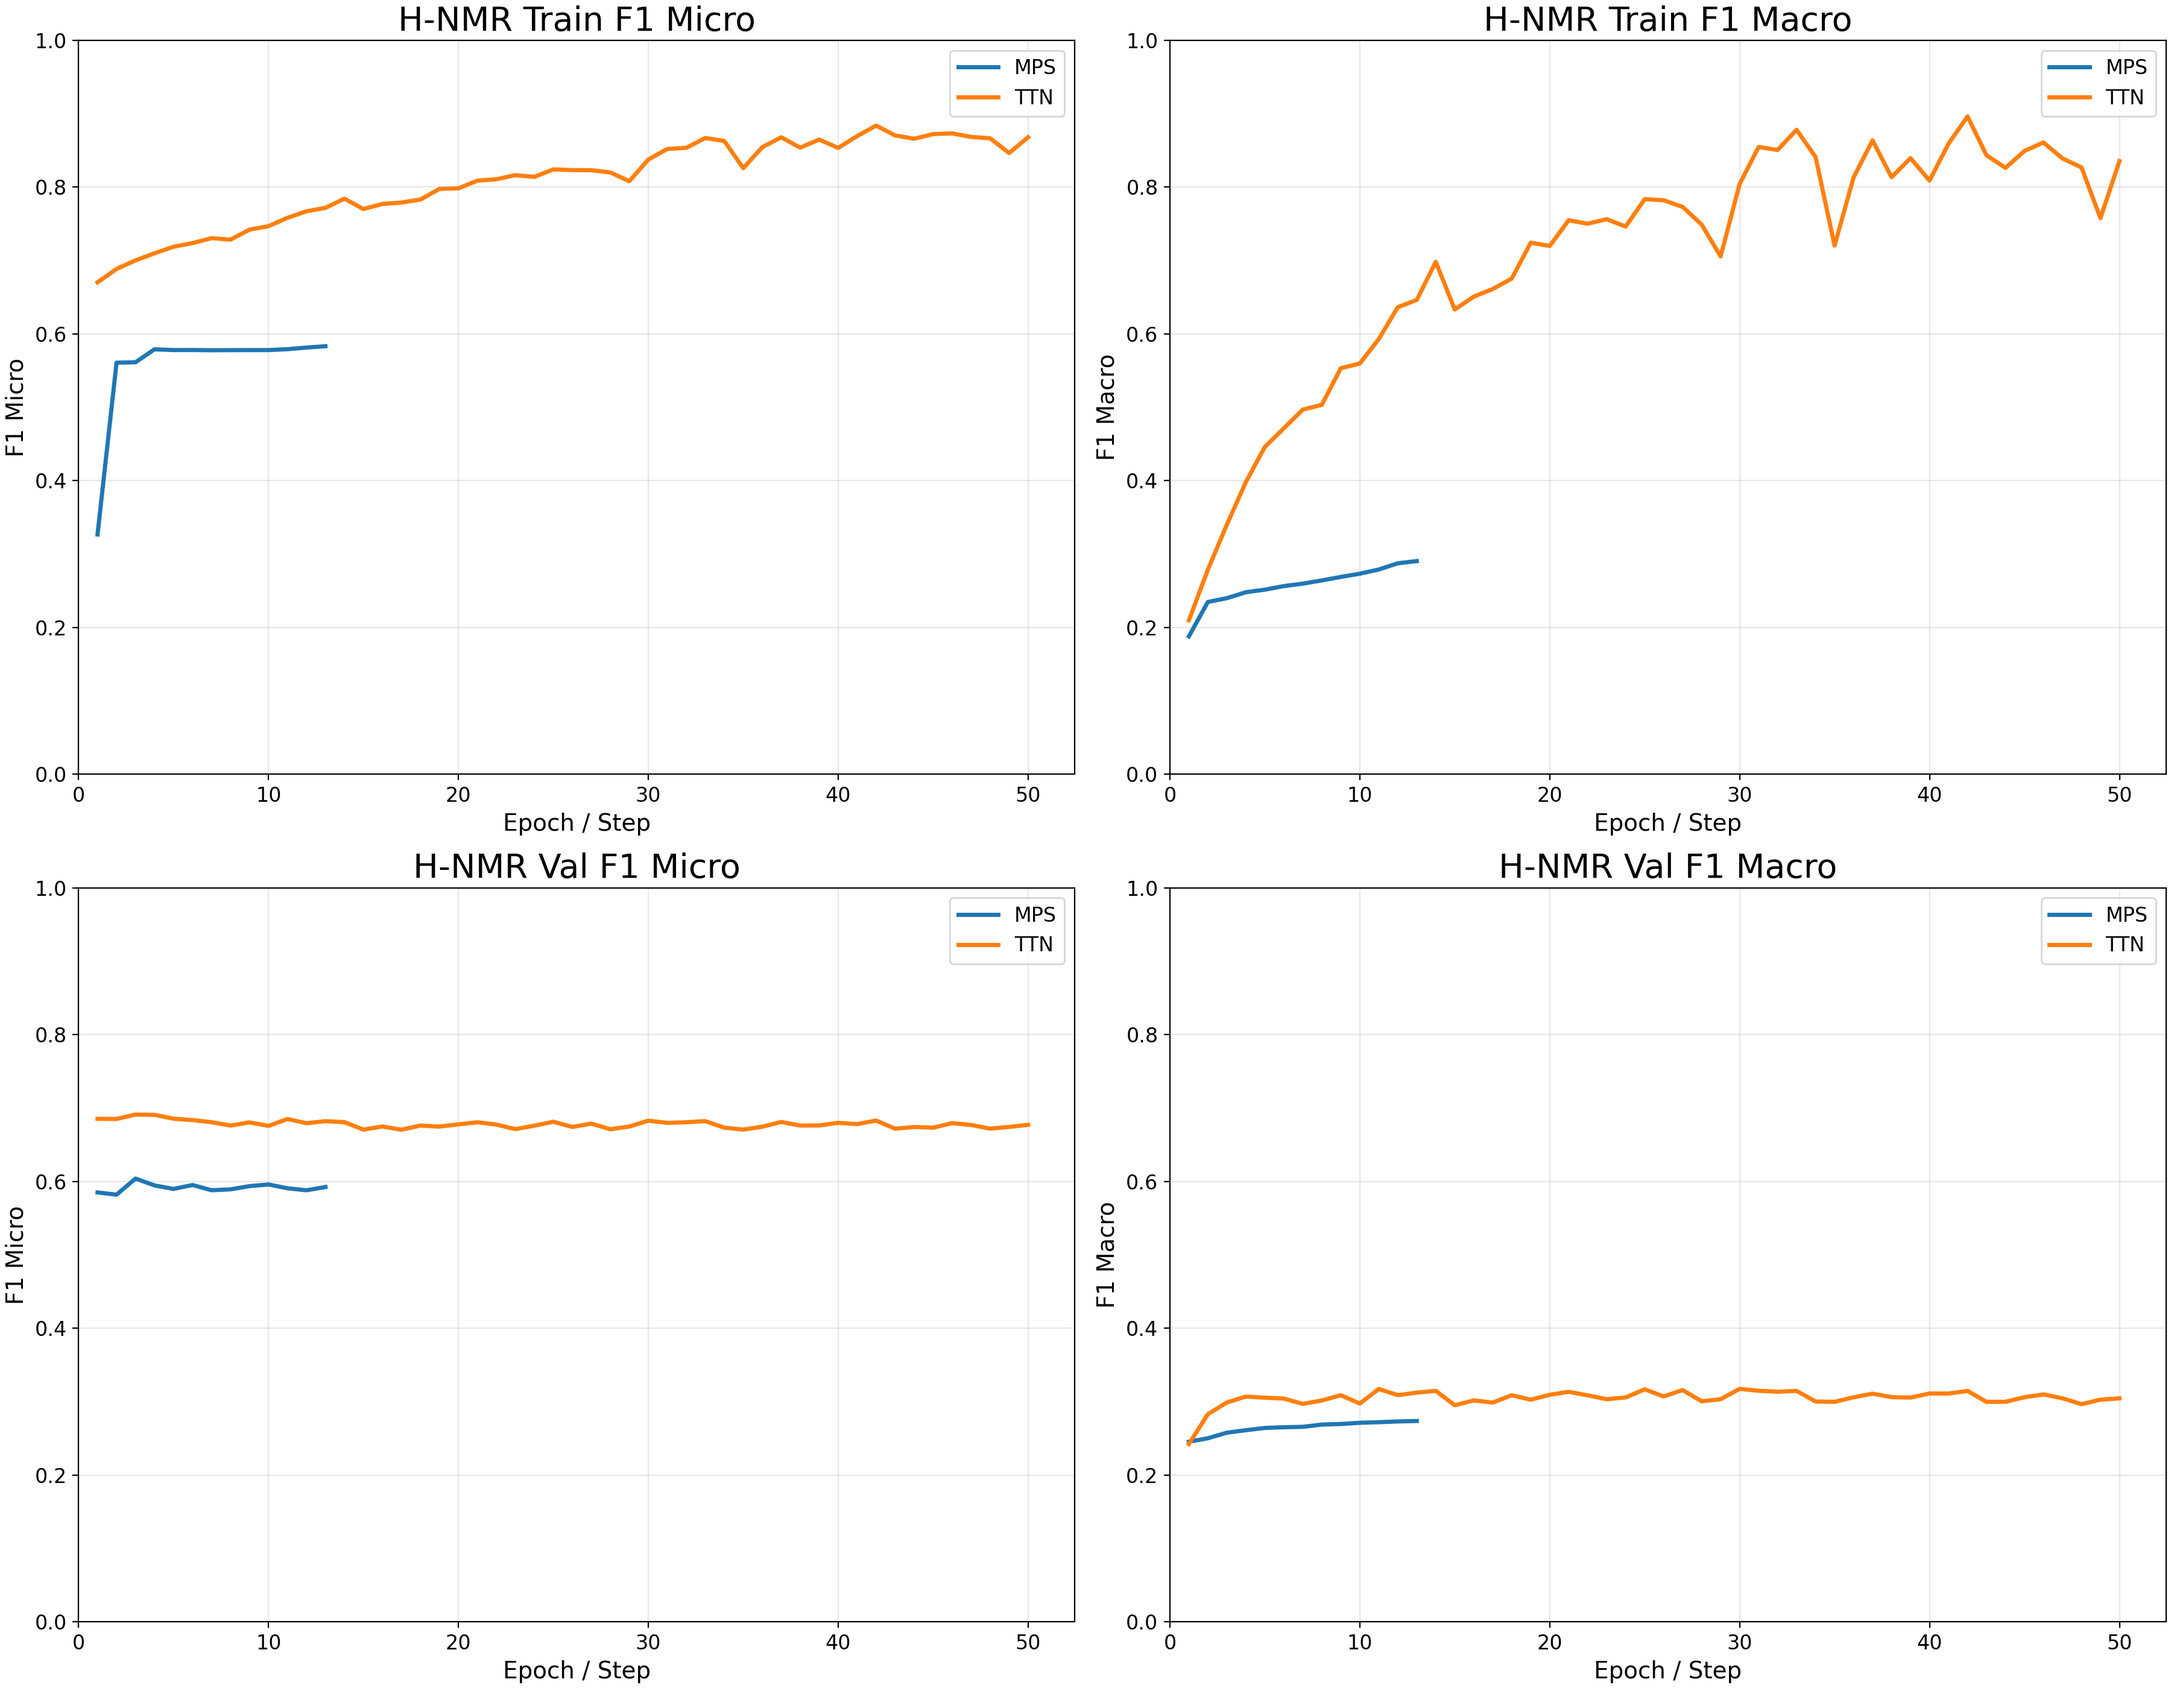
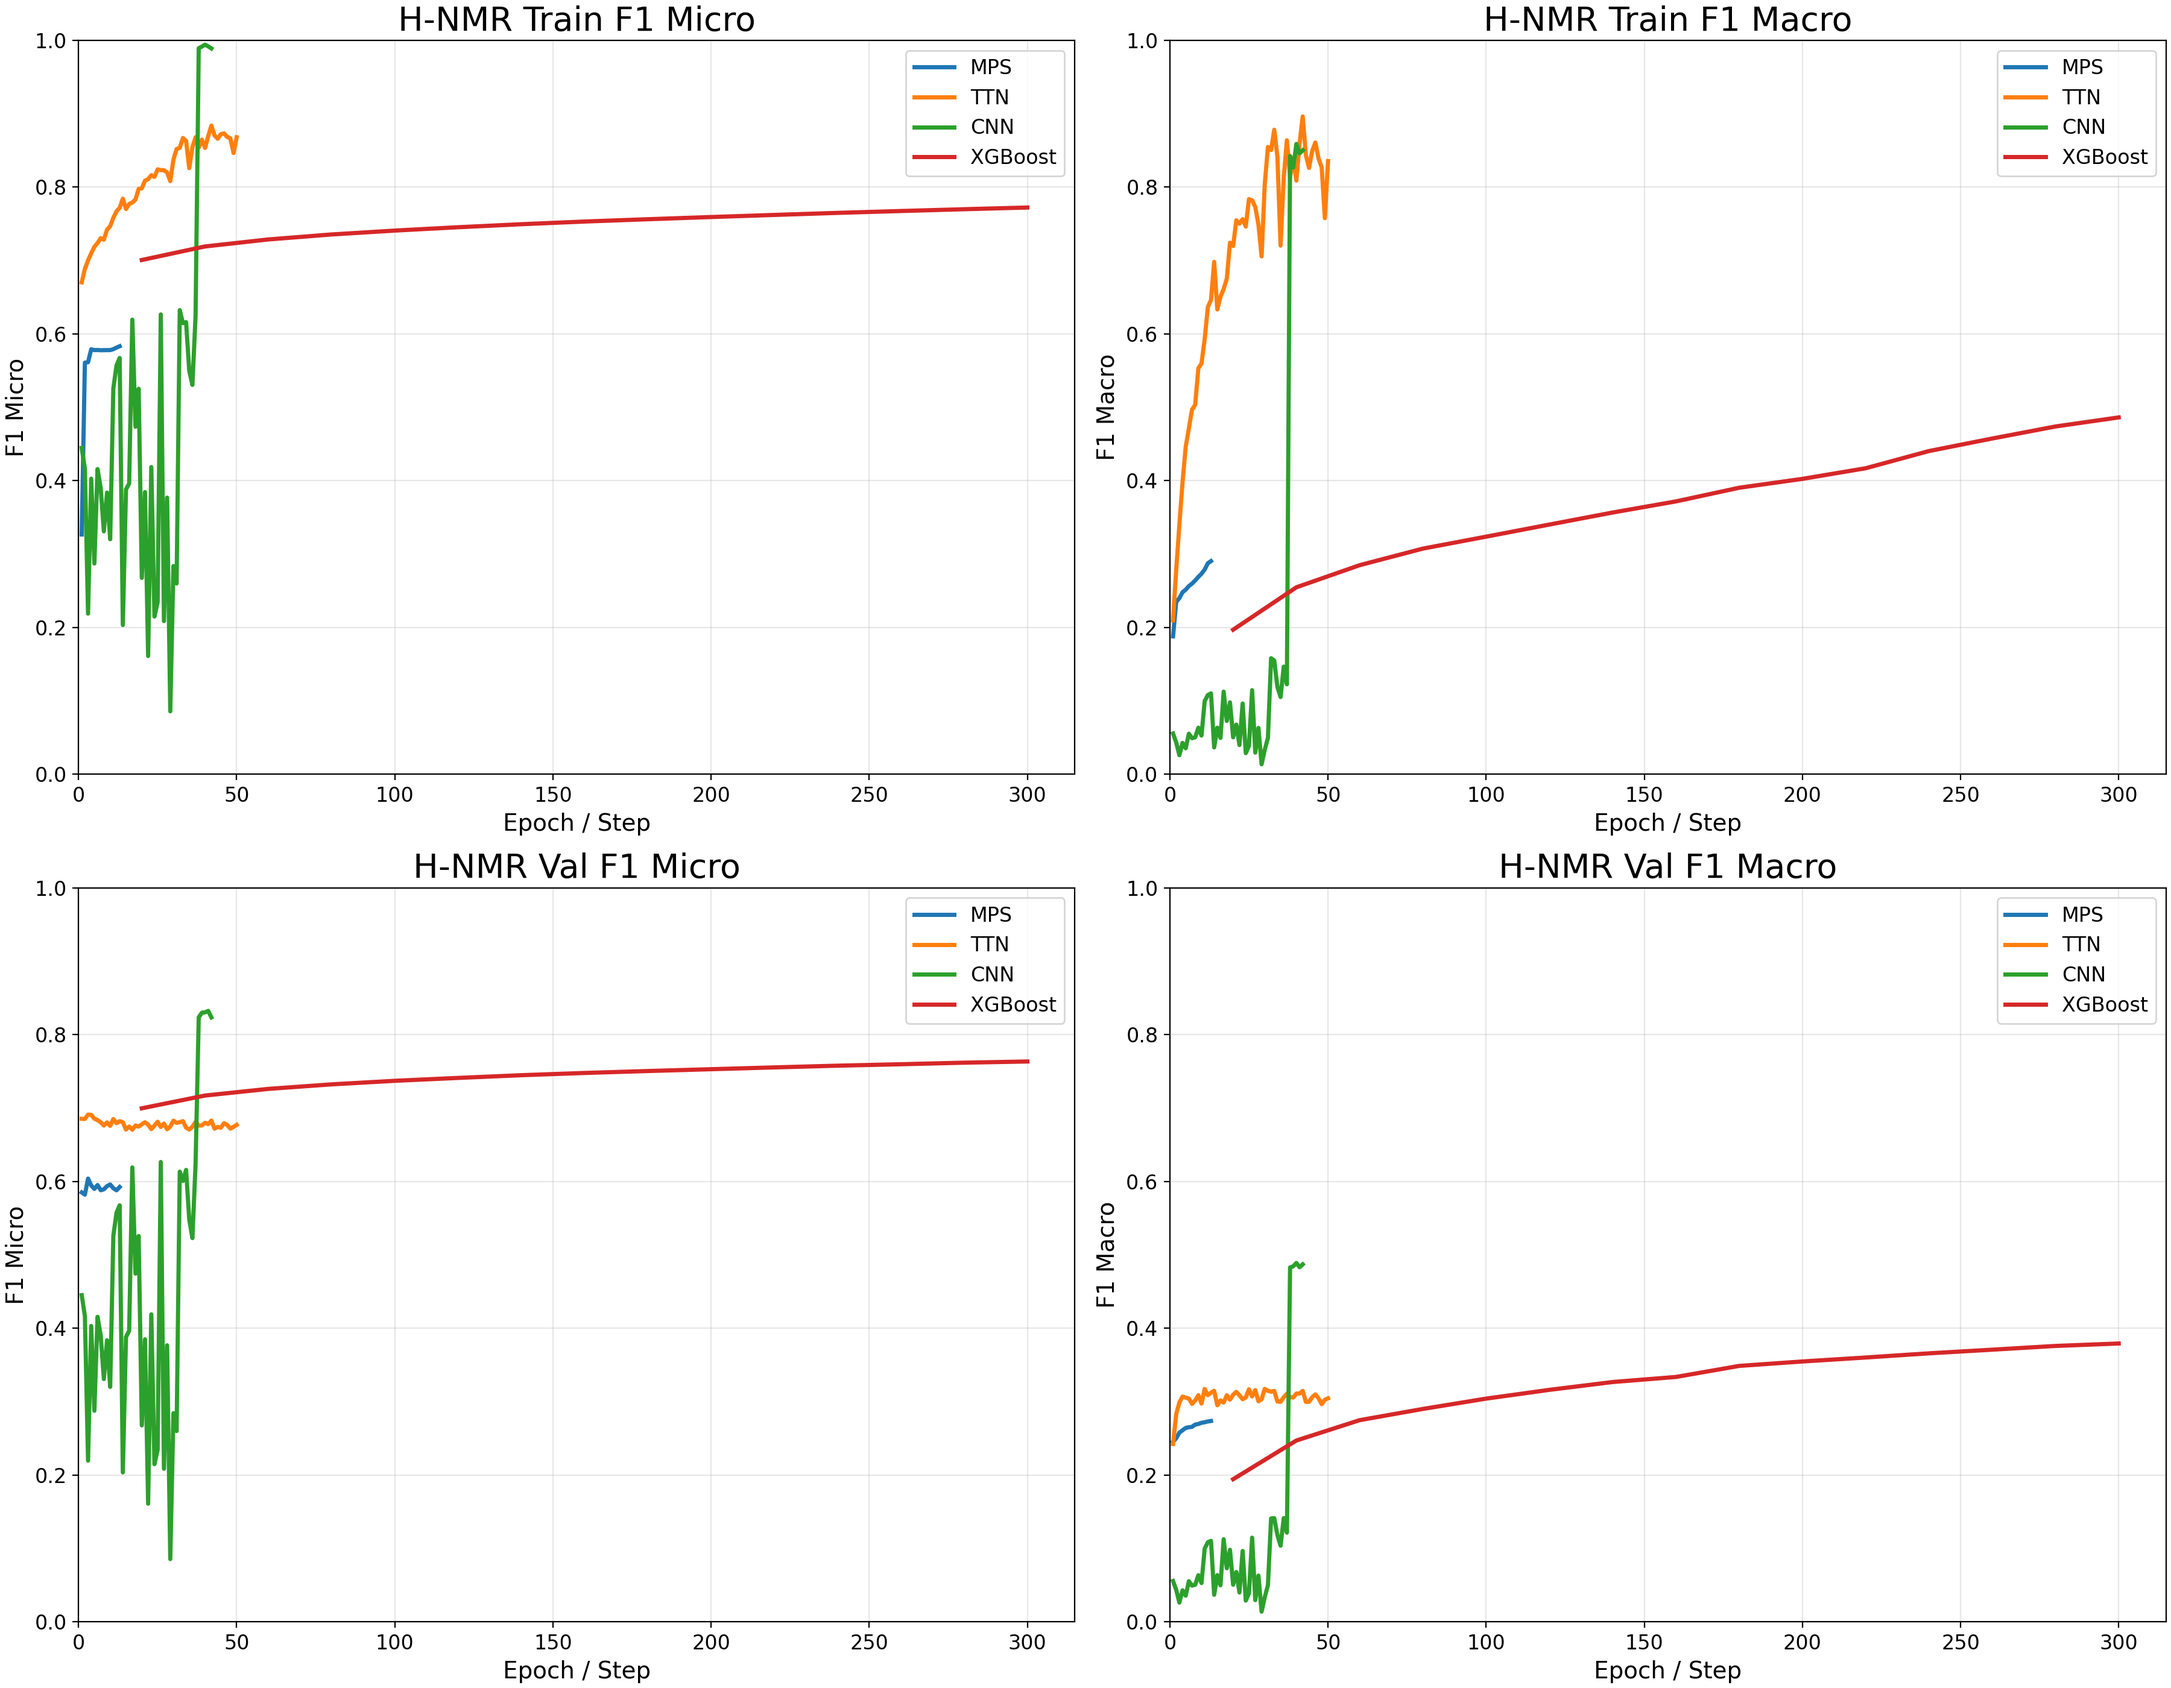
Füge Unterstützung für CNN- und XGBoost-Modelle in den Lernkurven-Skripten hinzu und aktualisiere die Ausgabepfade

diff --git a/artifacts/plots/learning_curves/plot_pos_msms_learning_curves.py b/artifacts/plots/learning_curves/plot_pos_msms_learning_curves.py
@@ -15,6 +15,8 @@ TITLE = "MS/MS+"
 SOURCES = {
     "MPS": ("epoch_csv", ROOT / "src/spectroscopy_qml/msms_pos/mps_classifier_msms_pos/results_600/training_log.csv"),
     "TTN": ("epoch_csv", ROOT / "src/spectroscopy_qml/msms_pos/tree_tensor_network/results_600/training_log.csv"),
+    "CNN": ("cnn_csv", ROOT / "benchmark/cnn/models/pos_msms/original/training_logs.csv"),
+    "XGBoost": ("xgb_csv", ROOT / "benchmark/xgb/models/pos_msms/training_logs.csv"),
 }
 
 
@@ -23,7 +25,7 @@ def parse_args() -> argparse.Namespace:
     parser.add_argument(
         "--output",
         type=Path,
-        default=ROOT / "artifacts/plots/pos_msms_learning_curves.png",
+        default=ROOT / "artifacts/plots/learning_curves/pos_msms_learning_curves.png",
         help="Output PNG path.",
     )
     return parser.parse_args()
@@ -42,8 +44,26 @@ def read_epoch_log(path: Path, split: str) -> tuple[list[float], list[float], li
     return x, micro, macro
 
 
+def read_cnn_log(path: Path, split: str) -> tuple[list[float], list[float], list[float]]:
+    rows = [row for row in read_csv(path) if row.get("event") == "epoch_finished" and row.get("epoch")]
+    x = [float(row["epoch"]) for row in rows]
+    micro = [float(row[f"{split}_f1_micro"]) for row in rows]
+    macro = [float(row[f"{split}_f1_macro"]) for row in rows]
+    return x, micro, macro
+
+
+def read_xgb_log(path: Path, split: str) -> tuple[list[float], list[float], list[float]]:
+    rows = [row for row in read_csv(path) if row.get("event") == "learning_curve" and row.get("step")]
+    x = [float(row["step"]) for row in rows]
+    micro = [float(row[f"{split}_f1_micro"]) for row in rows]
+    macro = [float(row[f"{split}_f1_macro"]) for row in rows]
+    return x, micro, macro
+
+
 READERS = {
     "epoch_csv": read_epoch_log,
+    "cnn_csv": read_cnn_log,
+    "xgb_csv": read_xgb_log,
 }
 
 

diff --git a/artifacts/plots/learning_curves/plot_hnmr_learning_curves.py b/artifacts/plots/learning_curves/plot_hnmr_learning_curves.py
@@ -15,6 +15,8 @@ TITLE = "H-NMR"
 SOURCES = {
     "MPS": ("epoch_csv", ROOT / "src/spectroscopy_qml/hnmr/mps_classifier_hnmr/results_600/training_log.csv"),
     "TTN": ("epoch_csv", ROOT / "src/spectroscopy_qml/hnmr/tree_tensor_network/results_600/training_log.csv"),
+    "CNN": ("cnn_csv", ROOT / "benchmark/cnn/models/hnmr/original/training_logs.csv"),
+    "XGBoost": ("xgb_csv", ROOT / "benchmark/xgb/models/h_nmr/training_logs.csv"),
 }
 
 
@@ -23,7 +25,7 @@ def parse_args() -> argparse.Namespace:
     parser.add_argument(
         "--output",
         type=Path,
-        default=ROOT / "artifacts/plots/h_nmr_learning_curves.png",
+        default=ROOT / "artifacts/plots/learning_curves/h_nmr_learning_curves.png",
         help="Output PNG path.",
     )
     return parser.parse_args()
@@ -42,8 +44,26 @@ def read_epoch_log(path: Path, split: str) -> tuple[list[float], list[float], li
     return x, micro, macro
 
 
+def read_cnn_log(path: Path, split: str) -> tuple[list[float], list[float], list[float]]:
+    rows = [row for row in read_csv(path) if row.get("event") == "epoch_finished" and row.get("epoch")]
+    x = [float(row["epoch"]) for row in rows]
+    micro = [float(row[f"{split}_f1_micro"]) for row in rows]
+    macro = [float(row[f"{split}_f1_macro"]) for row in rows]
+    return x, micro, macro
+
+
+def read_xgb_log(path: Path, split: str) -> tuple[list[float], list[float], list[float]]:
+    rows = [row for row in read_csv(path) if row.get("event") == "learning_curve" and row.get("step")]
+    x = [float(row["step"]) for row in rows]
+    micro = [float(row[f"{split}_f1_micro"]) for row in rows]
+    macro = [float(row[f"{split}_f1_macro"]) for row in rows]
+    return x, micro, macro
+
+
 READERS = {
     "epoch_csv": read_epoch_log,
+    "cnn_csv": read_cnn_log,
+    "xgb_csv": read_xgb_log,
 }
 
 

diff --git a/artifacts/plots/learning_curves/plot_neg_msms_learning_curves.py b/artifacts/plots/learning_curves/plot_neg_msms_learning_curves.py
@@ -15,6 +15,7 @@ TITLE = "MS/MS-"
 SOURCES = {
     "MPS": ("epoch_csv", ROOT / "src/spectroscopy_qml/msms_neg/mps_classifier_msms_neg/results_600/training_log.csv"),
     "TTN": ("epoch_csv", ROOT / "src/spectroscopy_qml/msms_neg/tree_tensor_network/results_600/training_log.csv"),
+    "XGBoost": ("xgb_csv", ROOT / "benchmark/xgb/models/neg_msms/training_logs.csv"),
 }
 
 
@@ -23,7 +24,7 @@ def parse_args() -> argparse.Namespace:
     parser.add_argument(
         "--output",
         type=Path,
-        default=ROOT / "artifacts/plots/neg_msms_learning_curves.png",
+        default=ROOT / "artifacts/plots/learning_curves/neg_msms_learning_curves.png",
         help="Output PNG path.",
     )
     return parser.parse_args()
@@ -42,8 +43,17 @@ def read_epoch_log(path: Path, split: str) -> tuple[list[float], list[float], li
     return x, micro, macro
 
 
+def read_xgb_log(path: Path, split: str) -> tuple[list[float], list[float], list[float]]:
+    rows = [row for row in read_csv(path) if row.get("event") == "learning_curve" and row.get("step")]
+    x = [float(row["step"]) for row in rows]
+    micro = [float(row[f"{split}_f1_micro"]) for row in rows]
+    macro = [float(row[f"{split}_f1_macro"]) for row in rows]
+    return x, micro, macro
+
+
 READERS = {
     "epoch_csv": read_epoch_log,
+    "xgb_csv": read_xgb_log,
 }
 
 
